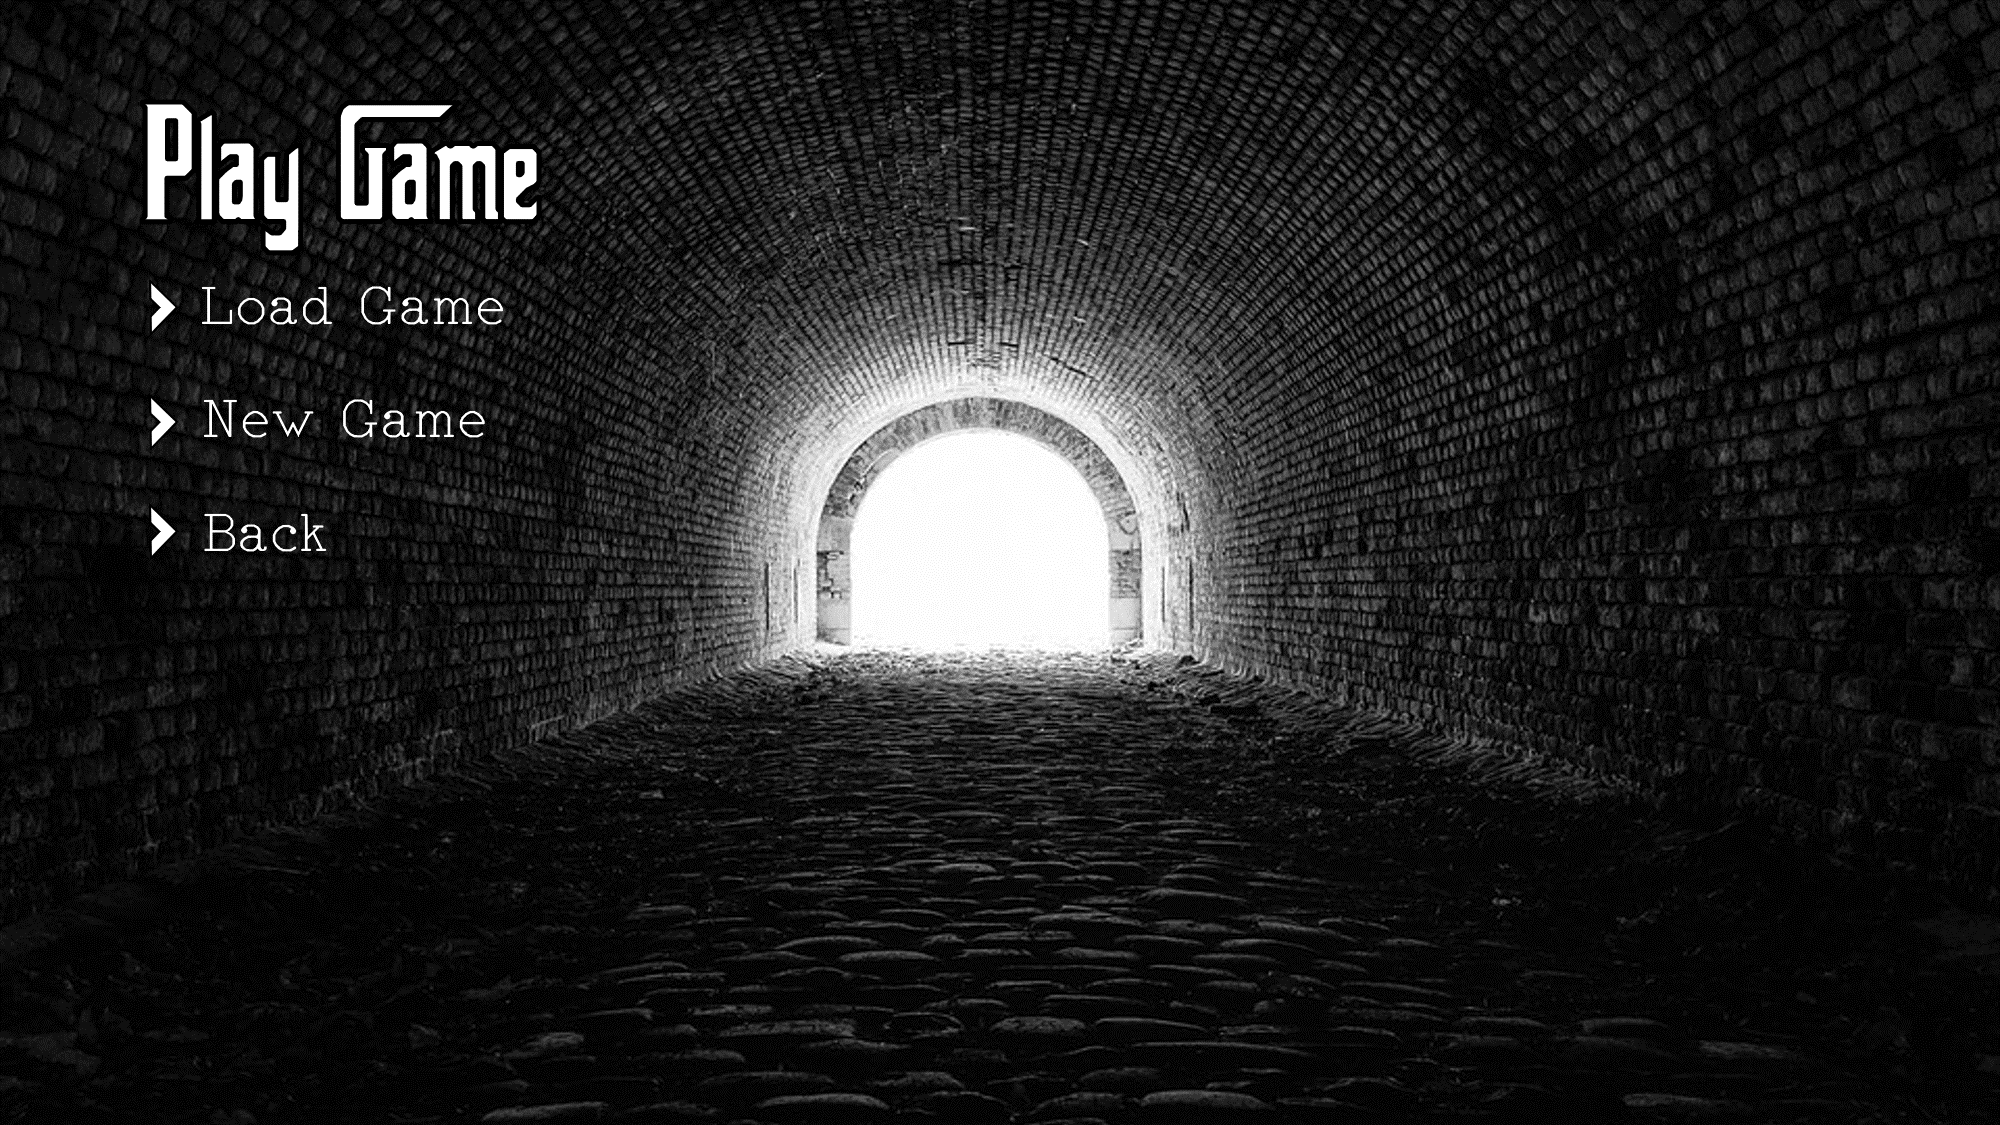
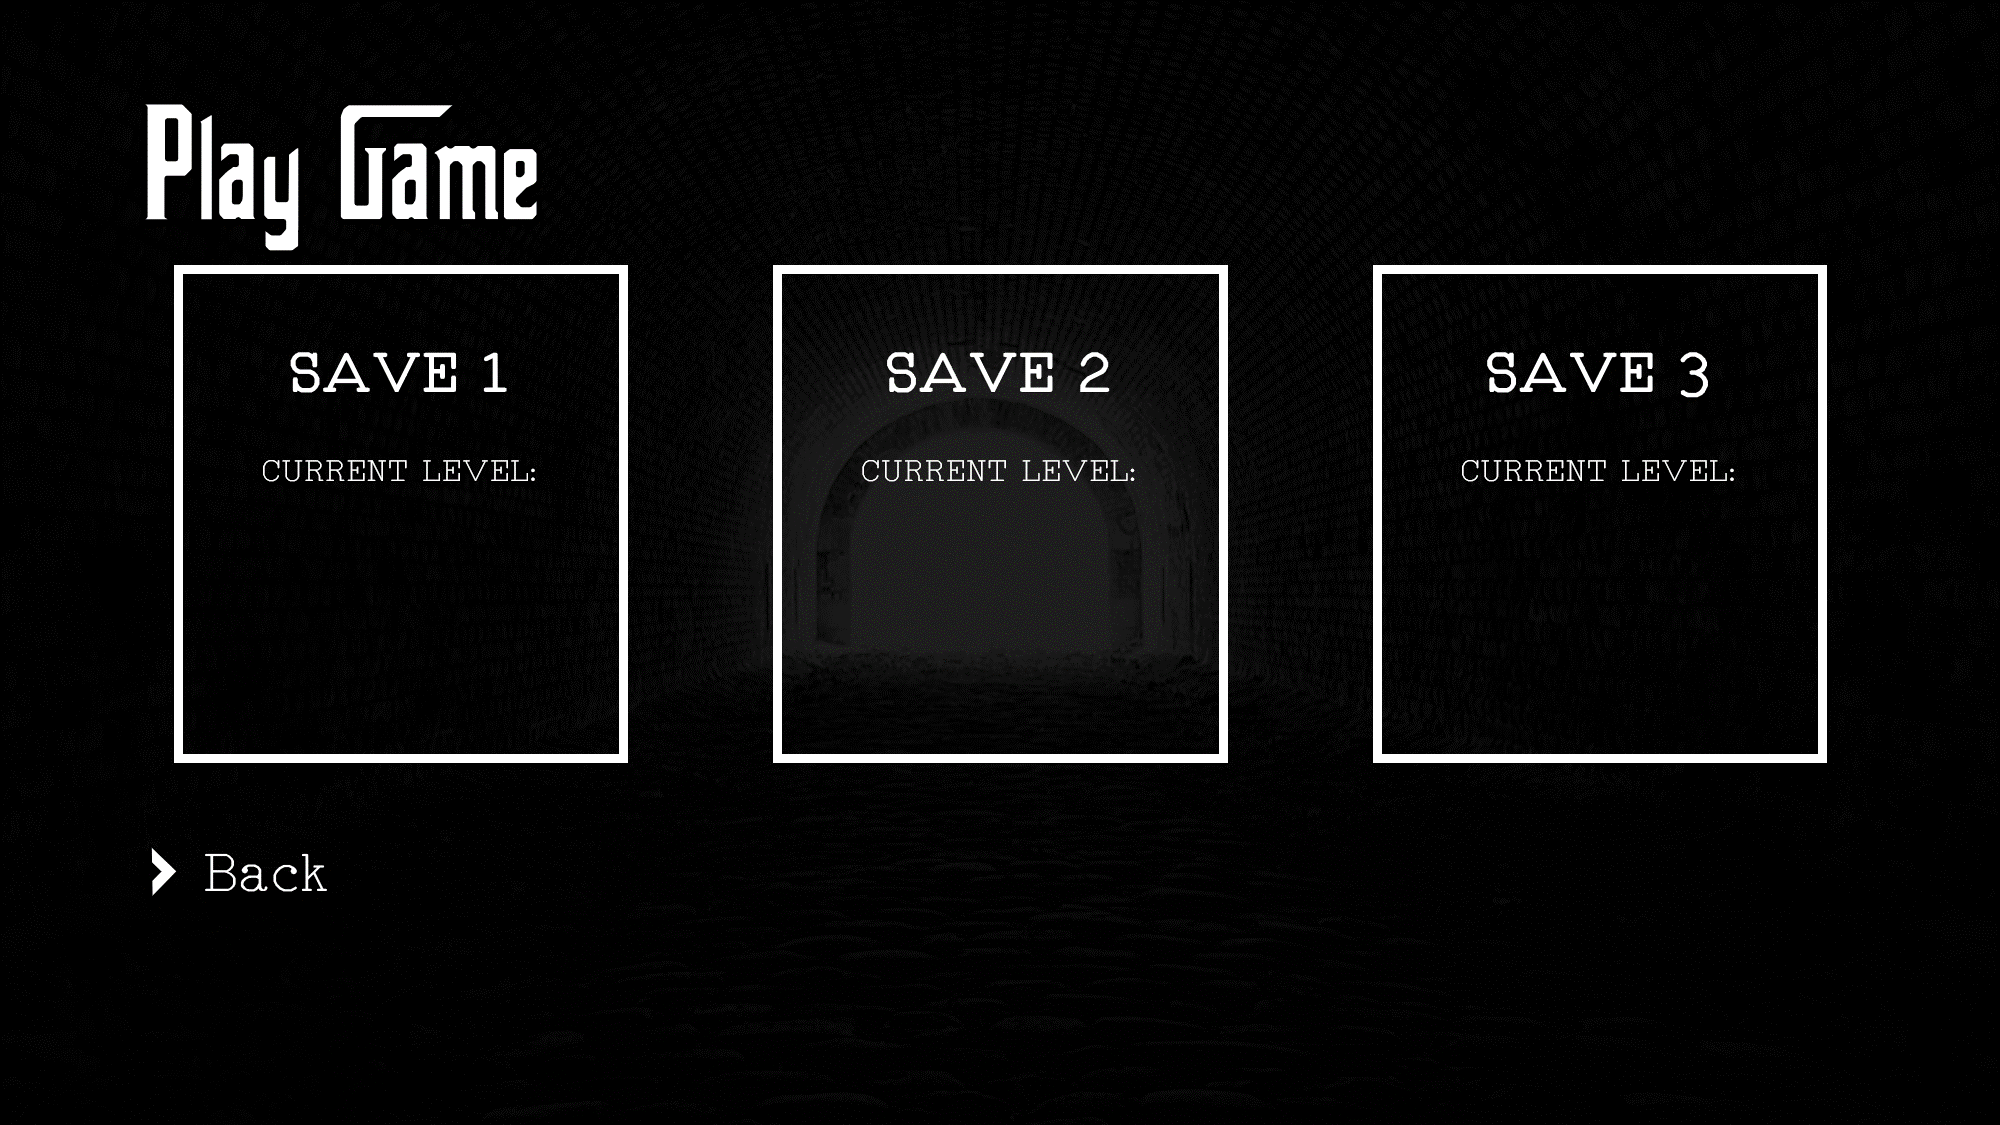
mapped every button in the app

diff --git a/game.cpp b/game.cpp
@@ -16,7 +16,9 @@ Game::Game(sf::RenderWindow* window)
     m_screenName = "title_screen";
     m_window = window;
     load();
-    m_backgroundSprite.setScale(m_window->getSize().x / m_backgroundSprite.getLocalBounds().width, m_window->getSize().y / m_backgroundSprite.getLocalBounds().height);
+    m_backgroundSprite.setScale(m_window->getSize().x / m_backgroundSprite.getLocalBounds().width,
+                                m_window->getSize().y / m_backgroundSprite.getLocalBounds().height);
+    getAllSaves();
 
 }
 
@@ -33,7 +35,7 @@ void Game::handleInput()
     }
     else if (m_screenName == "settings_screen")
     {
-        playScreenInput();
+        settingsScreenInput();
     }
 }
 
@@ -55,14 +57,6 @@ void Game::update()
 
 void Game::render()
 {
-    // if (m_screenName == "title_screen")
-    // {
-    //     titleScreenRender();
-    // }
-    // else if (m_screenName == "play_screen")
-    // {
-    //     playScreenRender();
-    // }
     renderBackground();
 
     if (m_settings.showFps == true)
@@ -103,7 +97,7 @@ bool Game::isDone() const
 
 void Game::loadSettings()
 {
-    std::fstream file("settings/settings.csv", std::ios::in);
+    std::fstream file("user_data/settings.csv", std::ios::in);
     char comma;
     std::string parameterName;
     file >> parameterName >> m_settings.playMusic;
@@ -117,7 +111,7 @@ void Game::loadSettings()
 
 void Game::updateSettings()
 {
-    std::fstream file("settings/settings.csv", std::ios::out);
+    std::fstream file("user_data/settings.csv", std::ios::out);
     const char comma = ',';
     std::string parameterName;
     file << "PLAY_MUSIC" << comma << m_settings.playMusic;
@@ -141,6 +135,11 @@ void Game::load()
     {
         std::cout << "Game: Loading play screen\n";
         playScreenLoad();
+    }
+    else if (m_screenName == "settings_screen")
+    {
+        std::cout << "Game: Loading settings screen\n";
+        settingsScreenLoad();
     }
     else if (m_screenName == "settings_screen")
     {
@@ -187,11 +186,10 @@ void Game::titleScreenInput()
                 float width = m_window->getSize().x;
                 float height = m_window->getSize().y;
                 if (event.mouseButton.x >= width * 0.10 &&
-                    event.mouseButton.x <= width * 0.25 &&
-                    event.mouseButton.y >= height * 0.25 &&
-                    event.mouseButton.y <= height * 0.50)
+                    event.mouseButton.x <= width * 0.25)
                 {
-                    if (event.mouseButton.y <= height * 0.3)
+                    if (event.mouseButton.y >= height * 0.25 &&
+                        event.mouseButton.y <= height * 0.3)
                     {
                         std::cout << "Game: 'Play Game' button pressed\n";
                         m_screenName = "play_screen";
@@ -221,20 +219,32 @@ void Game::titleScreenInput()
  * 
  * 
  ******************************************************************************/
-void Game::playScreenUpdate()
-{
-    m_backgroundSprite.setTexture(m_playScreenBg);
-}
 
-void Game::playScreenLoad()
+std::vector<std::string> Game::getAllSaves()
 {
-    if (!m_playScreenBg.loadFromFile("assets/play_screen_background.png"))
+    std::vector<std::string> saveFiles;
+    std::fstream file("user_data/one.save", std::ios::in);
+    if (!file.fail())
     {
-        std::exit(1);
+        saveFiles.push_back("one.save");
     }
+    file.close();
 
-    m_backgroundSprite.setTexture(m_playScreenBg);
-    std::cout << "Game: Play screen loaded\n";
+    file.open("user_data/two.save", std::ios::in);
+    if (!file.fail())
+    {
+        saveFiles.push_back("two.save");
+    }
+    file.close();
+
+    file.open("user_data/three.save", std::ios::in);
+    if (!file.fail())
+    {
+        saveFiles.push_back("three.save");
+    }
+    file.close();
+
+    return saveFiles;
 }
 
 void Game::playScreenInput()
@@ -252,24 +262,31 @@ void Game::playScreenInput()
             {
                 float width = m_window->getSize().x;
                 float height = m_window->getSize().y;
-                if (event.mouseButton.x >= width * 0.10 &&
-                    event.mouseButton.x <= width * 0.25 &&
-                    event.mouseButton.y >= height * 0.25 &&
-                    event.mouseButton.y <= height * 0.50)
+                if (event.mouseButton.y >= height * 0.23 &&
+                    event.mouseButton.y <= height * 0.69)
                 {
-                    if (event.mouseButton.y <= height * 0.3)
+                    if (event.mouseButton.x >= width * 0.09 &&
+                        event.mouseButton.x <= width * 0.31)
                     {
-                        std::cout << "Game: 'Load Game' button pressed\n";
+                        std::cout << "Save Slot 1 has been pressed\n";
                     }
-                    else if (event.mouseButton.y >= height * 0.35 &&
-                             event.mouseButton.y <= height * 0.4)
+                    else if (event.mouseButton.x >= width * 0.39 &&
+                             event.mouseButton.x <= width * 0.61)
                     {
-                        std::cout << "Game: 'New Game' button pressed\n";
+                        std::cout << "Save slot 2 has been pressed\n";
                     }
-                    else if (event.mouseButton.y >= height * 0.45 &&
-                             event.mouseButton.y <= height * 0.5)
+                    else if (event.mouseButton.x >= width * 0.69 &&
+                             event.mouseButton.x <= width * 0.91)
                     {
-                        std::cout << "Game: 'Back' button pressed\n";
+                        std::cout << "Save slot 3 has been pressed\n";
+                    }
+                }
+                if (event.mouseButton.y >= height * 0.75 &&
+                    event.mouseButton.y <= height * 0.8)
+                {
+                    if (event.mouseButton.x >= width * 0.1 &&
+                    event.mouseButton.x <= width * 0.165)
+                    {
                         m_screenName = "title_screen";
                         load();
                     }
@@ -278,6 +295,21 @@ void Game::playScreenInput()
         }
     }
 }
+
+void Game::playScreenLoad()
+{
+    if (!m_titleScreenBg.loadFromFile("assets/play_screen_background.png"))
+    {
+        std::exit(1);
+    }
+    m_backgroundSprite.setTexture(m_titleScreenBg);
+}
+
+void Game::playScreenUpdate()
+{
+    m_backgroundSprite.setTexture(m_titleScreenBg);
+}
+
 
 /*******************************************************************************
  * Functions for settingsScreen change this comment to be better
@@ -308,6 +340,92 @@ void Game::settingsScreenInput()
         if (event.type == sf::Event::Closed)    // Close window button clicked.
         {
             m_window->close();
+        }
+        if (event.type == sf::Event::MouseButtonPressed)
+        {
+            if (event.mouseButton.button == sf::Mouse::Left)
+            {
+                float width = m_window->getSize().x;
+                float height = m_window->getSize().y;
+                if (event.mouseButton.x >= width * 0.30 &&
+                    event.mouseButton.x <= width * 0.37)
+                {
+                    if (event.mouseButton.y >= height * 0.25 &&
+                        event.mouseButton.y <= height * 0.30)
+                    {
+                        std::cout << "Settings Screen: Play Music 'Yes' button pressed\n";
+                    }
+                    else if (event.mouseButton.y >= height * 0.35 &&
+                             event.mouseButton.y <= height * 0.40)
+                    {
+                        std::cout << "Settings Screen: Play Audio 'Yes' button pressed\n";
+                    }
+                    else if (event.mouseButton.y >= height * 0.45 &&
+                             event.mouseButton.y <= height * 0.50)
+                    {
+                        std::cout << "Settings Screen: Difficulty 'Easy' button pressed\n";
+                    }
+                    else if (event.mouseButton.y >= height * 0.55 &&
+                             event.mouseButton.y <= height * 0.60)
+                    {
+                        std::cout << "Settings Screen: Frame Rate '30' button pressed\n";
+                    }
+                    else if (event.mouseButton.y >= height * 0.65 &&
+                             event.mouseButton.y <= height * 0.70)
+                    {
+                        std::cout << "Settings Screen: Show FPS 'Yes' button pressed\n";
+                    }
+                }
+                else if (event.mouseButton.x >= width * 0.4 &&
+                         event.mouseButton.x <= width * 0.48)
+                {
+                    if (event.mouseButton.y >= height * 0.25 &&
+                        event.mouseButton.y <= height * 0.30)
+                    {
+                        std::cout << "Settings Screen: Play Music 'No' button pressed\n";
+                    }
+                    else if (event.mouseButton.y >= height * 0.35 &&
+                             event.mouseButton.y <= height * 0.40)
+                    {
+                        std::cout << "Settings Screen: Play Audio 'No' button pressed\n";
+                    }
+                    else if (event.mouseButton.y >= height * 0.45 &&
+                             event.mouseButton.y <= height * 0.50)
+                    {
+                        std::cout << "Settings Screen: Difficulty 'Hard' button pressed\n";
+                    }
+                    else if (event.mouseButton.y >= height * 0.55 &&
+                             event.mouseButton.y <= height * 0.60)
+                    {
+                        std::cout << "Settings Screen: Frame Rate '60' button pressed\n";
+                    }
+                    else if (event.mouseButton.y >= height * 0.65 &&
+                             event.mouseButton.y <= height * 0.70)
+                    {
+                        std::cout << "Settings Screen: Show FPS 'No' button pressed\n";
+                    }
+                }
+                else if (event.mouseButton.x >= width * 0.50 &&
+                         event.mouseButton.x <= width * 0.56)
+                {
+                    if (event.mouseButton.y >= height * 0.55 &&
+                        event.mouseButton.y <= height * 0.6)
+                    {
+                        std::cout << "Settings Screen: Frame Rate '120' button pressed\n";
+                    }
+                }
+                else if (event.mouseButton.x >= width * 0.10 &&
+                         event.mouseButton.x <= width * 0.16)
+                {
+                    if (event.mouseButton.y >= height * 0.75 &&
+                        event.mouseButton.y <= height * 0.80)
+                    {
+                        std::cout << "Settings Screen: 'Back' button pressed\n";
+                        m_screenName = "title_screen";
+                        load();
+                    }
+                }
+            }
         }
     }
 }

diff --git a/game.h b/game.h
@@ -7,6 +7,7 @@
 #include <fstream>
 #include <cstdio>
 #include <iostream> // used for debugging
+#include <windows.h>
 
 #include "settings.h"
 
@@ -45,8 +46,8 @@ private:
     void titleScreenInput();        // private member function to do title screen input if screen is title screen
     sf::Texture m_titleScreenBg;
 
-
     // PLAY SCREEN RESOURCES
+    std::vector<std::string> getAllSaves();
     void playScreenUpdate();
     void playScreenLoad();
     void playScreenInput();

diff --git a/main.cpp b/main.cpp
@@ -14,6 +14,7 @@ int main()
     Game game(&window);
 
 
+
     while(!game.isDone())
     {
         game.clearScreen();
